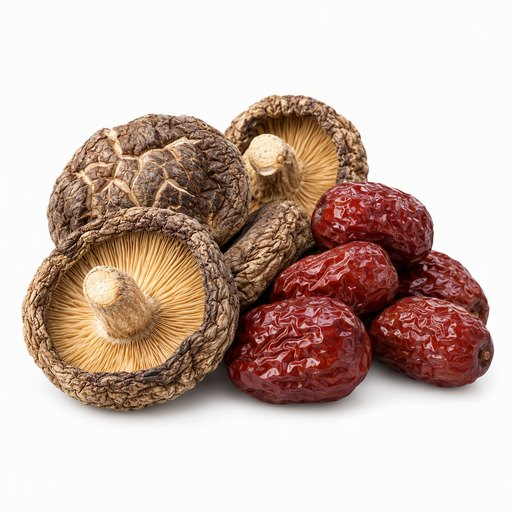
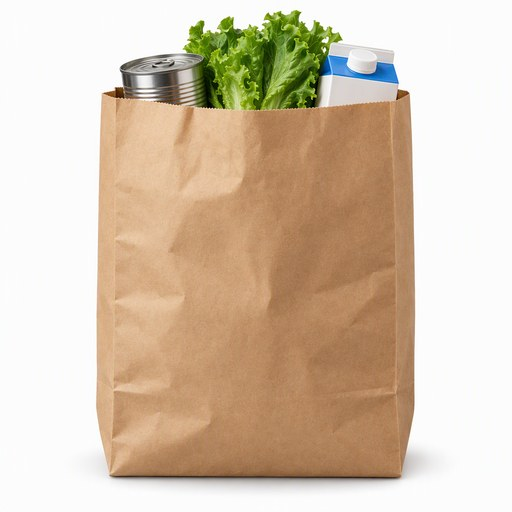
换掉「其他」万能图：香菇+红枣 → 杂货纸袋
Ethan 批准了换图。原来那张画的是香菇+红枣（很具体的东西），
却被当「兜底」用 —— 任何认不出的词退到它都显得配错
（「汤」「熟食」「速冻」「干货」配一堆香菇红枣）。

## 新图

牛皮纸购物袋里露出罐头、生菜、牛奶盒 —— **真正的「杂货」**，
不指向任何具体食物，所以退到它不会显得配错。

用 docs/10 里那份统一提示词模板生成（纯白底 / 柔和投影 /
摄影棚光 / 正方形构图 / 无文字无手无道具），
1024x1024 出图 → 512x512 JPEG，**和现有 614 张风格完全一致**。

## 顺带修「从扫描开始」显示不全

根因：HomeScreen 把 EmptyState 套在  里，
而 EmptyState 的内容（32dp 上下内边距 + 标题 + 间距 + 描述）需要 110dp 左右
—— 底部被裁掉，看起来像字体渲染坏了。

修法：给 EmptyState 加
 Áгö G:\workbuddy\ÈÎÎñ·¾¶\Fridge-Prophet\
 Ð¼ӵ½´ËĿ¼µÄÎļþ½«²»»áµõ½ѹËõ¡£

      629 :       629 = 1.0 µ½ 1   .gitattributes
        0 :         0 = 1.0 µ½ 1   .github
     2972 :      2972 = 1.0 µ½ 1   .gitignore
        0 :         0 = 1.0 µ½ 1   .tmp-backup-ingredients-20261006-122642
        0 :         0 = 1.0 µ½ 1   .tmp-backup-recipes-20261006-133401
        0 :         0 = 1.0 µ½ 1   .tmp-images
        0 :         0 = 1.0 µ½ 1   .tmp-images-ingredients
        0 :         0 = 1.0 µ½ 1   .workbuddy-ai
        0 :         0 = 1.0 µ½ 1   android
        0 :         0 = 1.0 µ½ 1   backend
     4106 :      4106 = 1.0 µ½ 1   build-debug.bat
        0 :         0 = 1.0 µ½ 1   docs
     2994 :      2994 = 1.0 µ½ 1   make-keystore.bat
        0 :         0 = 1.0 µ½ 1   outputs
    22990 :     22990 = 1.0 µ½ 1   README.md
     3014 :      3014 = 1.0 µ½ 1   start-backend.bat
        0 :         0 = 1.0 µ½ 1   tools

ÔÚĿ¼ 1 ÏµÄ 18 ¸öÎļþÖУ¬ÓÐ
0 ¸öÒѱ»ѹËõ£¬18 ¸öδѹËõ¡£
×ܹ² 36,705 ×ֽÚÊý¾ݱ£´æÔÚ 36,705 ×ֽÚÖС£
ѹËõÂÊΪ 1.0 µ½ 1¡£ 参数（内边距 32→16dp），
HomeScreen 去掉固定高度。顺手把文案改得不那么 AI：
[…]

diff --git a/android/app/src/main/java/com/fridgeprophet/app/ui/components/Common.kt b/android/app/src/main/java/com/fridgeprophet/app/ui/components/Common.kt
@@ -194,12 +194,26 @@ fun EmptyState(
     actionText: String? = null,
     onAction: (() -> Unit)? = null,
     modifier: Modifier = Modifier,
+    /**
+     * 紧凑模式：**嵌在列表里**用（不是整页空状态）时打开。
+     *
+     * 默认的 32dp 内边距是给「整页空状态」留的呼吸感；
+     * 嵌在 LazyColumn 的一个 item 里时，32dp 上下 + 标题 + 间距 + 描述
+     * 一共要 110dp 左右 —— 如果外面还套了个固定高度的 Box，**底部会被裁掉**。
+     *
+     * ⚠ 2026-10-07 踩过：首页的「从扫描开始」被套在 `height(80.dp)` 里，
+     * 结果标题下半截被切掉，看起来像字体渲染坏了。
+     * **嵌在列表里的空状态一律用 compact = true，并且不要在外面套固定高度。**
+     */
+    compact: Boolean = false,
 ) {
+    val pad = if (compact) 16.dp else 32.dp
+    val gap = if (compact) 6.dp else 10.dp
     Box(modifier = modifier.fillMaxSize(), contentAlignment = Alignment.Center) {
         Column(
-            modifier = Modifier.padding(32.dp),
+            modifier = Modifier.padding(pad),
             horizontalAlignment = Alignment.CenterHorizontally,
-            verticalArrangement = Arrangement.spacedBy(10.dp),
+            verticalArrangement = Arrangement.spacedBy(gap),
         ) {
             Text(
                 text = title,

diff --git a/android/app/src/main/java/com/fridgeprophet/app/ui/screens/home/HomeScreen.kt b/android/app/src/main/java/com/fridgeprophet/app/ui/screens/home/HomeScreen.kt
@@ -392,12 +392,16 @@ fun HomeScreen(
 
         if (state.items.isEmpty() && state.recommendations.isEmpty() && state.error == null) {
             item {
-                Box(Modifier.fillMaxWidth().height(80.dp)) {
-                    EmptyState(
-                        title = "从扫描开始",
-                        description = "冰箱里有东西，我才能告诉你今天吃什么",
-                    )
-                }
+                // ⚠ 这里**不要**套固定高度的 Box。
+                // 原来写的是 `.height(80.dp)`，而 EmptyState 的内容
+                //（32dp 上下内边距 + 标题 + 间距 + 描述）需要 110dp 左右 ——
+                // 结果「从扫描开始」的标题下半截被裁掉，看起来像字体坏了。
+                // 用 compact 让它自己在列表里撑开。
+                EmptyState(
+                    title = "冰箱还空着",
+                    description = "先拍一张照片，我看看里面有什么",
+                    compact = true,
+                )
             }
         }
 
